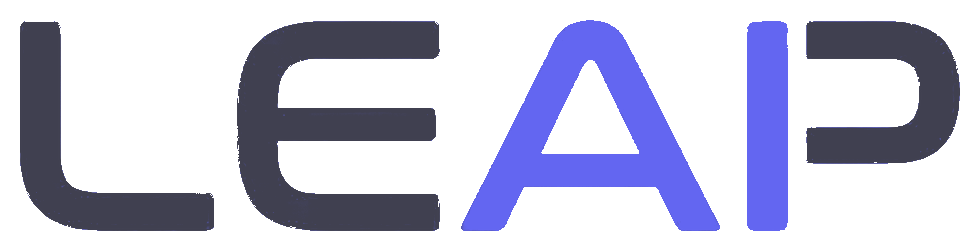
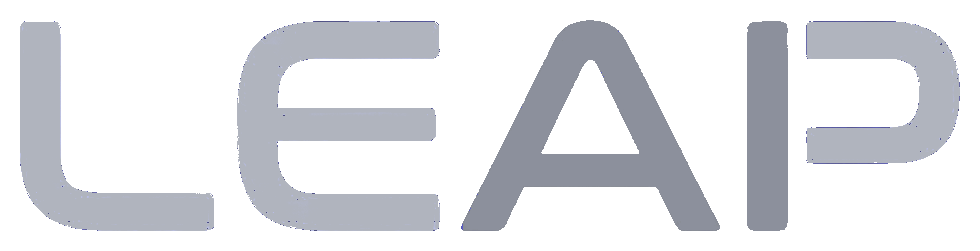
Add Leap (light orange-white) theme, rename old Leap to Amber, soften Dawn, default to Nord
- New Leap theme: light theme with warm orange/cream backgrounds inspired by app icon
- Renamed previous Leap theme to Amber (logo, theme definition, registry)
- Softened Dawn theme: lighter borders, muted accents, subtler header bar
- Default theme changed to Nord for new installs
- Updated README screenshot and theme logos
- Added add-monitor-theme skill for future theme additions

diff --git a/src/leap/monitor/themes.py b/src/leap/monitor/themes.py
@@ -273,27 +273,27 @@ _DAWN = Theme(
     window_bg='#f8f9fc',
     cell_bg='#ffffff',
     cell_bg_alt='#f5f6fa',
-    hover_bg='rgba(99, 102, 241, 10)',
+    hover_bg='rgba(148, 163, 184, 10)',
     text_primary='#1e1e2e',
     text_secondary='#64748b',
     text_muted='#94a3b8',
-    border_solid='#d1d5e0',
-    border_subtle='rgba(0, 0, 0, 12)',
+    border_solid='#e2e5eb',
+    border_subtle='rgba(0, 0, 0, 8)',
     accent_green='#16a34a',
     accent_red='#dc2626',
     accent_orange='#ea580c',
-    accent_blue='#2563eb',
+    accent_blue='#8993a4',
     accent_yellow='#ca8a04',
     popup_bg='#ffffff',
-    popup_border='#d1d5e0',
+    popup_border='#e2e5eb',
     input_bg='#ffffff',
-    input_border='#d1d5e0',
-    input_focus_border='#6366f1',
-    icon_color='#64748b',
-    header_bg='#eef0f5',
-    button_bg='#e8eaf2',
-    button_hover_bg='#dcdfe8',
-    button_border='#d1d5e0',
+    input_border='#d8dbe3',
+    input_focus_border='#9ba4b5',
+    icon_color='#94a3b8',
+    header_bg='#f5f6f9',
+    button_bg='#eef0f5',
+    button_hover_bg='#e5e7ed',
+    button_border='#e2e5eb',
     scrollbar_bg='#f8f9fc',
     scrollbar_handle='#d1d5e0',
     scrollbar_handle_hover='#b8bcc8',
@@ -343,6 +343,43 @@ _COSMOS = Theme(
 
 _LEAP = Theme(
     name='Leap',
+    is_dark=False,
+    window_bg='#fdf4e8',
+    cell_bg='#fff9f0',
+    cell_bg_alt='#f8efe2',
+    hover_bg='rgba(232, 132, 40, 12)',
+    text_primary='#3a2810',
+    text_secondary='#8a6e48',
+    text_muted='#b89868',
+    border_solid='#e8cca0',
+    border_subtle='rgba(232, 132, 40, 10)',
+    accent_green='#16a34a',
+    accent_red='#dc2626',
+    accent_orange='#e88428',
+    accent_blue='#e89020',
+    accent_yellow='#f0a830',
+    popup_bg='#fff9f0',
+    popup_border='#e8cca0',
+    input_bg='#fff9f0',
+    input_border='#e0c498',
+    input_focus_border='#e89020',
+    icon_color='#b89868',
+    header_bg='#f5dfc0',
+    button_bg='#f0dcc0',
+    button_hover_bg='#e8d0a8',
+    button_border='#e0c498',
+    scrollbar_bg='#fdf4e8',
+    scrollbar_handle='#e0c498',
+    scrollbar_handle_hover='#d0b080',
+    status_running='#16a34a',
+    status_permission='#e88428',
+    status_input='#2563eb',
+    status_interrupted='#ca8a04',
+    status_idle='#3a2810',
+)
+
+_AMBER = Theme(
+    name='Amber',
     is_dark=True,
     window_bg='#1c1710',
     cell_bg='#211c14',
@@ -381,6 +418,7 @@ _LEAP = Theme(
 # Ordered dict preserving insertion order for combo box display
 THEMES: dict[str, Theme] = {
     'Leap': _LEAP,
+    'Amber': _AMBER,
     'Midnight': _MIDNIGHT,
     'Cosmos': _COSMOS,
     'Ocean': _OCEAN,
@@ -390,7 +428,7 @@ THEMES: dict[str, Theme] = {
     'Dawn': _DAWN,
 }
 
-_current_theme_name: str = 'Leap'
+_current_theme_name: str = 'Nord'
 
 
 def current_theme() -> Theme:

diff --git a/src/leap/monitor/_mixins/table_builder_mixin.py b/src/leap/monitor/_mixins/table_builder_mixin.py
@@ -1573,7 +1573,7 @@ class TableBuilderMixin(_Base):
             current_diff_tool=self._prefs.get('default_diff_tool', ''),
             new_status_seconds=self._prefs.get('new_status_seconds', 60),
             current_global_shortcut=self._prefs.get('global_shortcut', ''),
-            current_theme_name=self._prefs.get('theme', 'Midnight'),
+            current_theme_name=self._prefs.get('theme', 'Nord'),
             on_theme_change=self._apply_theme,
             parent=self,
         )

diff --git a/src/leap/monitor/dialogs/settings_dialog.py b/src/leap/monitor/dialogs/settings_dialog.py
@@ -146,7 +146,7 @@ class SettingsDialog(QDialog):
         current_diff_tool: str = '',
         new_status_seconds: int = 60,
         current_global_shortcut: str = '',
-        current_theme_name: str = 'Midnight',
+        current_theme_name: str = 'Nord',
         on_theme_change: Optional[Callable[[str], None]] = None,
         parent: Optional[object] = None,
     ) -> None:

diff --git a/src/leap/monitor/app.py b/src/leap/monitor/app.py
@@ -1930,7 +1930,7 @@ def main() -> None:
 
     # Load saved theme before creating the window
     prefs = load_monitor_prefs()
-    saved_theme = prefs.get('theme', 'Midnight')
+    saved_theme = prefs.get('theme', 'Nord')
     set_theme(saved_theme)
 
     # Set macOS appearance based on theme (dark/light)

diff --git a/.claude/skills/add-monitor-theme.md b/.claude/skills/add-monitor-theme.md
@@ -1,0 +1,121 @@
+# Add a New Monitor Theme
+
+Guide for adding a new visual theme to the Leap Monitor GUI.
+
+## Overview
+
+Themes are defined as frozen `Theme` dataclasses in `src/leap/monitor/themes.py`. Each theme provides a complete color palette. The monitor applies colors via `QPalette` + minimal QSS. A themed logo variant is loaded automatically based on the theme name.
+
+## Steps
+
+### 1. Design the Color Palette
+
+Every theme needs these color groups:
+
+| Group | Fields | Notes |
+|-------|--------|-------|
+| **Backgrounds** | `window_bg`, `cell_bg`, `cell_bg_alt`, `hover_bg`, `header_bg`, `popup_bg` | `hover_bg` is an `rgba()` string. `cell_bg_alt` is for alternating rows. `header_bg` is the darkest (logo bar + table header). |
+| **Text** | `text_primary`, `text_secondary`, `text_muted` | Primary = main content, secondary = labels/hints, muted = disabled/dim. Ensure WCAG 4.5:1 contrast against `cell_bg`. |
+| **Borders** | `border_solid`, `border_subtle` | Solid = group separators (2px). Subtle = intra-group (1px, `rgba()` string). |
+| **Accents** | `accent_green`, `accent_red`, `accent_orange`, `accent_blue`, `accent_yellow` | `accent_blue` is used for the "Add Session" button and drop indicator. `accent_green` for running status. `accent_red` for close/delete. |
+| **Inputs** | `input_bg`, `input_border`, `input_focus_border` | Focus border = the theme's signature accent color. |
+| **Buttons** | `button_bg`, `button_hover_bg`, `button_border` | Used for generic toolbar buttons (Settings, Notes, Presets). |
+| **Scrollbar** | `scrollbar_bg`, `scrollbar_handle`, `scrollbar_handle_hover` | Match window_bg for track, border_solid range for handle. |
+| **Status** | `status_running`, `status_permission`, `status_input`, `status_interrupted`, `status_idle` | Functional colors — keep green/orange/blue/yellow semantics. `status_idle` matches `text_primary`. |
+| **Misc** | `icon_color`, `is_dark` | `icon_color` = SVG icon tint. `is_dark` controls macOS appearance mode. |
+
+**Design tips:**
+- For dark themes: backgrounds should have subtle warm/cool undertones (not pure gray) to give character
+- The `accent_blue` field is the primary action color (button outlines, focus rings) — name it "blue" but use whatever fits the theme
+- `hover_bg` should be a very low-alpha version of the accent color (10-20 alpha)
+- `border_subtle` should be a low-alpha version too (12-22 alpha)
+
+### 2. Add the Theme Definition
+
+In `src/leap/monitor/themes.py`, add a new `_THEME_NAME` variable before the `THEMES` dict:
+
+```python
+_MYTHEME = Theme(
+    name='MyTheme',
+    is_dark=True,  # or False for light themes
+    window_bg='#...',
+    # ... all fields ...
+)
+```
+
+Then add it to the `THEMES` ordered dict (position determines combo box order):
+
+```python
+THEMES: dict[str, Theme] = {
+    'Leap': _LEAP,
+    'MyTheme': _MYTHEME,  # Add here
+    # ... existing themes ...
+}
+```
+
+### 3. Create the Logo Variant
+
+Each theme needs a logo file at `assets/leap-text-<suffix>.png` where `<suffix>` is the theme name lowercased with spaces replaced by hyphens (e.g., `leap-text-mytheme.png`, `leap-text-solarized-dark.png`).
+
+The logo is a 980x251 RGBA PNG with two colors:
+- **Main text** (L, E, P letters): should match or complement `text_primary`
+- **Accent** (A letter): should match the theme's signature accent color
+
+To create a new logo, recolor an existing one using PIL/numpy:
+
+```python
+from PIL import Image
+import numpy as np
+
+# Use any existing theme logo as a base
+img = Image.open('assets/leap-text-midnight.png')
+data = np.array(img, dtype=np.float64)
+
+# Midnight's colors: main=#e2e4f0, accent=#60a5fa
+old_main = np.array([0xe2, 0xe4, 0xf0], dtype=np.float64)
+old_accent = np.array([0x60, 0xa5, 0xfa], dtype=np.float64)
+new_main = np.array([...], dtype=np.float64)   # your text_primary
+new_accent = np.array([...], dtype=np.float64)  # your accent color
+
+rgb = data[:, :, :3]
+alpha = data[:, :, 3:]
+threshold = 40.0
+
+for old_color, new_color in [(old_main, new_main), (old_accent, new_accent)]:
+    dist = np.sqrt(np.sum((rgb - old_color) ** 2, axis=2))
+    mask = (dist < threshold) & (data[:, :, 3] > 30)
+    for ch in range(3):
+        offset = rgb[:, :, ch][mask] - old_color[ch]
+        rgb[:, :, ch][mask] = np.clip(new_color[ch] + offset, 0, 255)
+
+result = np.concatenate([rgb, alpha], axis=2).astype(np.uint8)
+Image.fromarray(result, 'RGBA').save('assets/leap-text-mytheme.png')
+```
+
+**Note:** Logo files are auto-included via `glob('assets/leap-text*.png')` in `setup.py`, so no `setup.py` change is needed.
+
+### 4. Update CLAUDE.md
+
+Update the theme count and list in the Theming bullet point under "Adding Features":
+
+```
+Nine built-in themes: Leap, Amber, Midnight, Cosmos, Ocean, Monokai, Nord, Solarized Dark, Dawn.
+```
+
+### 5. Set as Default (Optional)
+
+To make the new theme the default:
+
+1. In `themes.py`: change `_current_theme_name: str = 'Leap'` to your theme name
+2. In `app.py` (`main()`): change the `prefs.get('theme', 'Leap')` fallback
+3. In `settings_dialog.py`: change the `current_theme_name: str = 'Leap'` default parameter
+4. In `table_builder_mixin.py`: change the `self._prefs.get('theme', 'Leap')` fallback
+
+### Checklist
+
+- [ ] Theme definition added to `themes.py` with all required fields
+- [ ] Theme added to `THEMES` dict in desired position
+- [ ] Logo PNG created at `assets/leap-text-<suffix>.png` (980x251 RGBA)
+- [ ] CLAUDE.md theme count and list updated
+- [ ] (If default) All four default references updated
+- [ ] Test: switch to the theme in Settings and verify all UI elements render correctly

diff --git a/CLAUDE.md b/CLAUDE.md
@@ -74,7 +74,7 @@ src/
     │   ├── leap_sender.py         # Socket sender for /leap commands + message bundles
     │   ├── navigation.py        # IDE terminal navigation
     │   ├── monitor_utils.py     # Utilities (icon finder, lock removal)
-    │   ├── themes.py            # Visual theme definitions (6 built-in themes, manager API)
+    │   ├── themes.py            # Visual theme definitions (9 built-in themes, manager API)
     │   │
     │   ├── _mixins/             # MonitorWindow mixin classes
     │   │   ├── actions_menu_mixin.py  # Git menu (branch col) + Path menu (Open Terminal/IDE)
@@ -165,7 +165,7 @@ assets/
 | `SendMessageDialog` | `monitor/ui/image_text_edit.py` | Message dialog with image paste (replaces QInputDialog) |
 | `ColorPickerPopup` | `monitor/ui/table_helpers.py` | Row color picker popup (grid of swatches + clear) |
 | `DockBadge` | `monitor/ui/dock_badge.py` | Dock icon badge overlay + notification event detection |
-| `Theme` / `current_theme()` | `monitor/themes.py` | Theme dataclass + manager API (6 built-in themes) |
+| `Theme` / `current_theme()` | `monitor/themes.py` | Theme dataclass + manager API (9 built-in themes) |
 | `ensure_contrast()` | `monitor/themes.py` | WCAG contrast safety-net (returns black/white if ratio < 4.5:1) |
 | `SlackBot` | `slack/bot.py` | Main Slack bot (Socket Mode + event handlers) |
 | `OutputCapture` | `slack/output_capture.py` | Read hook response from signal file, write .last_response |
@@ -234,7 +234,7 @@ Type `^msg` in the server terminal to queue a message without opening a client. 
   1. Add the constant in `utils/constants.py` (next to `QUEUE_DIR`, `SOCKET_DIR`, `HISTORY_DIR`)
   2. Add a `.mkdir()` call in `ensure_storage_dirs()` in `utils/constants.py`
   3. Add the path to the `ensure-storage` target in `Makefile`
-- **Theming** → Use `current_theme()` from `monitor/themes.py` to access colors. Never hardcode colors in monitor code — use theme properties (e.g. `t.accent_green`, `t.text_primary`). Theme colors are applied via `QPalette` (preserves native macOS widget rendering) + minimal QSS. Cell button styles use `close_btn_style()` / `active_btn_style()` / `menu_btn_style()` from `table_helpers.py`. Theme persists as `"theme"` in `monitor_prefs.json` (default: `"Midnight"`). Six built-in themes: Midnight, Ocean, Monokai, Nord, Solarized Dark, Dawn.
+- **Theming** → Use `current_theme()` from `monitor/themes.py` to access colors. Never hardcode colors in monitor code — use theme properties (e.g. `t.accent_green`, `t.text_primary`). Theme colors are applied via `QPalette` (preserves native macOS widget rendering) + minimal QSS. Cell button styles use `close_btn_style()` / `active_btn_style()` / `menu_btn_style()` from `table_helpers.py`. Theme persists as `"theme"` in `monitor_prefs.json` (default: `"Midnight"`). Nine built-in themes: Leap, Amber, Midnight, Cosmos, Ocean, Monokai, Nord, Solarized Dark, Dawn.
 - **New assets (images, icons, themed variants)** → Any new asset file in `assets/` that the monitor uses at runtime **must** also be added to `DATA_FILES` in `setup.py`. The py2app bundle only includes explicitly listed files — assets missing from `setup.py` will work in `make run-monitor` (dev mode) but silently fail in the installed app. Logo text variants use `glob('assets/leap-text*.png')` so new theme logos are auto-included, but other new assets need manual addition.
 
 ## Testing
